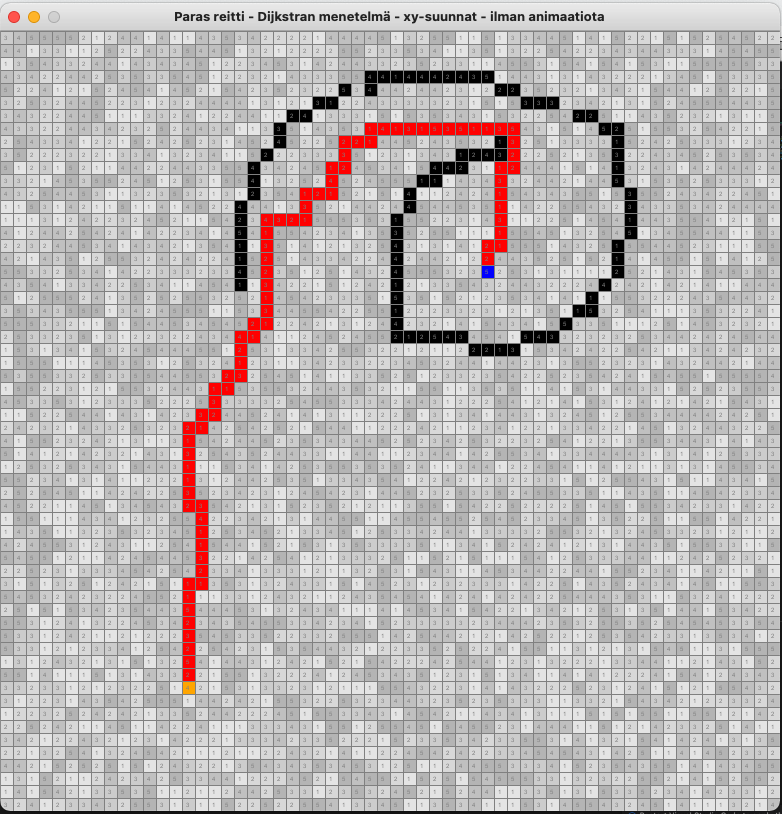
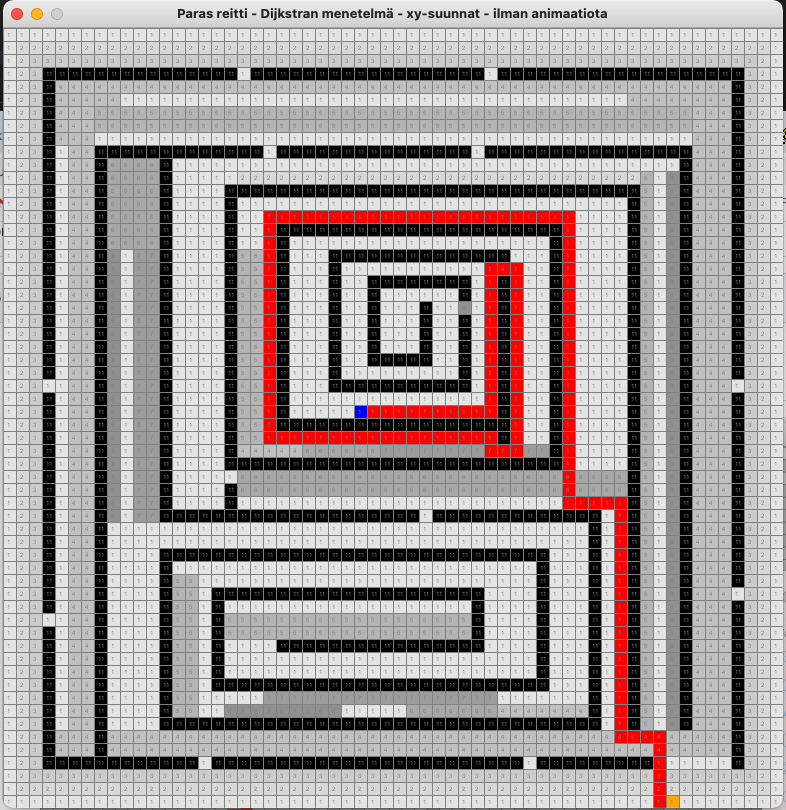
Testausdokumentti, testikartta

diff --git a/src/ui.py b/src/ui.py
@@ -124,6 +124,14 @@ class Ui:
 						self.map.make()
 						self.map.read("maps/1.map")
 
+	# Uusi kartta TIEDOSTOSTA
+					if event.key == pygame.K_2:
+						self.map = Map(self.win, self.nrows, self.ncols, self.width, self.height, self.gsize)
+						self.startnode = None
+						self.endnode = None
+						self.map.make()
+						self.map.read("maps/2.map")
+
 	# Laskennan aloitus
 					if event.key == pygame.K_s:
 						if self.startnode and self.endnode:
